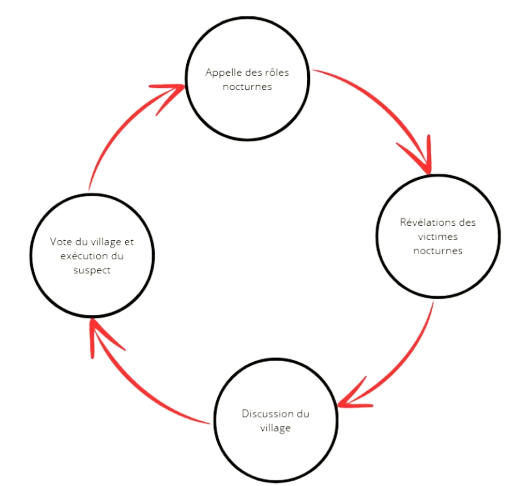
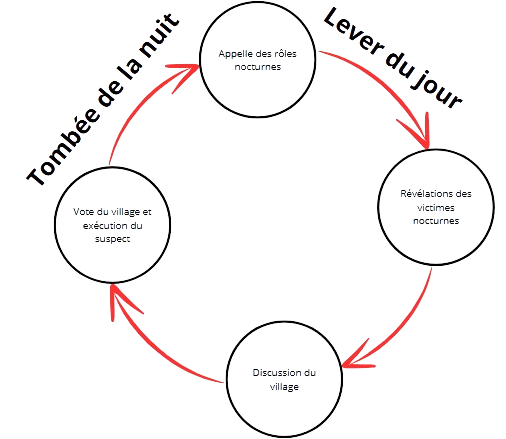
Corrections et ajouts mineurs

Changed region(s): [[0.0296, 0.0, 0.9783, 1.0], [0.2964, 0.4146, 0.3261, 0.4442]]

diff --git a/src/app/regles/regles.component.html b/src/app/regles/regles.component.html
@@ -17,7 +17,7 @@
                 <h2>Tour de jeu</h2>
                 <img src="tourDeJeu.png" class="responsive-img" alt="image"  />
                 <p>
-                    Une partie se déroule selon une alternance de nuits et de jours. Au début de chaque nuit, le meneur demande à tous les joueurs de fermer les yeux.
+                    Une partie se déroule avec une alternance entre une phase de nuit et une phase de jour. Au début de chaque nuit, le meneur demande à tous les joueurs de fermer les yeux.
                     Puis il demande aux personnages nocturnes de les rouvrir (de se réveiller) à tour de rôle pour utiliser leur pouvoir.
                     Ainsi chaque nuit, les loups-garous dévorent un villageois tandis des villageois ayant des pouvoirs spécials qu'on appelle «villageois spéciaux» 
                     se réveillent afin de mettre en déroute les loups-garous.
@@ -52,7 +52,7 @@
                 <h2>Déroulement du jeu</h2>
 
                 <p>
-                    Il est strictement interdit de révéler sa carte Personnage à quiconque, mais tout peut-être dit !
+                    Il est strictement interdit de révéler <a href="typesDeCartes/1" class="link"> sa carte Personnage</a> à quiconque, mais tout peut-être dit !
                     Chacun a le droit de se faire passer pour un autre. Cette phrase est le coeur du jeu faites briller vos talent de tribun, bluffez ou dites la vérité,
                     mais soyez toujours crédible.
                 </p>

diff --git a/src/app/carte/detail-carte/detail-carte.component.html b/src/app/carte/detail-carte/detail-carte.component.html
@@ -37,15 +37,25 @@
                 </strong></td>
               </tr>
               <tr>
-                <td style="width: 5%;display: inline;">Types de pouvoirs :</td>
+                <td  style="width: 5%;display: inline;">
+                  <span *ngIf="carte.typesPouvoir.length == 1">
+                    Type du pouvoir :
+                  </span>
+                  <span *ngIf="carte.typesPouvoir.length > 1">
+                    Types des pouvoirs :
+                  </span>
+                </td>
                 <td style="text-align:center">
+                  <p *ngIf='carte.typesPouvoir == null'>
+                    Ce personnage n'a aucun pouvoir
+                  </p>
                   <span (click)="goToPouvoir(type)" style="cursor: pointer;" *ngFor='let type of carte.typesPouvoir' class="{{ type.id | cartePouvoirColorPipe }}">
                     {{ type.nom }}
                   </span>
                 </td>
               </tr>
               <tr>
-                <td style="width: 5%;display: inline;">Types de cartes :</td>
+                <td style="width: 5%;display: inline;">Type de la carte :</td>
                 <td style="text-align:center">
                   <span (click)="goToType(carte.typeDeCarte)" style="cursor: pointer;"  class="{{ carte.typeDeCarte.id | carteTypeColor }}">
                     {{ carte.typeDeCarte.nom }}

diff --git a/src/app/carte/mock-typesDeCartes-list.ts b/src/app/carte/mock-typesDeCartes-list.ts
@@ -16,7 +16,7 @@ export const TYPESDECARTES: typesDeCartes[] = [
         nom: "Fonction",
         illustration:  "fonction.jpeg",
         description: "Les cartes fonctions ou charges honorifiques confèrent à son détenteur un pouvoir spécifique et unique. " +
-        "Contrairement aux cartes personnages, les cartes fonction sont disposés face visibles mais sont cumulables avec une carte personnage. "+
+        "Contrairement aux cartes personnages, les cartes fonction sont disposés face visibles à la vue de tous mais sont cumulables avec une carte personnage. "+
         "Elles ont chacunes leurs propres règles d'attribution et de succession. " + 
         "Le but des joueurs ayant une carte fonction restent celles de leurs cartes personnages mais ils disposent maintenant d'un pouvoir plus grand pour y parvenir."
     }

diff --git a/src/app/carte/mock-cartes-list.ts b/src/app/carte/mock-cartes-list.ts
@@ -11,7 +11,7 @@ export const CARTES: Carte[] = [
         illustration: "Simple-villageois.png",
         imageCarte:  "sv.jpg",
         camps: CAMPS[0],
-        typesPouvoir: [],
+        typesPouvoir: null,
         imageLore:  "svLore.png",
         description: "C’est le villageois de base du jeu, il ne possède aucun pouvoir spécial. " +
         "De ce fait, il peut porter des accusations et se mettre en danger sans pénaliser son camp.",
